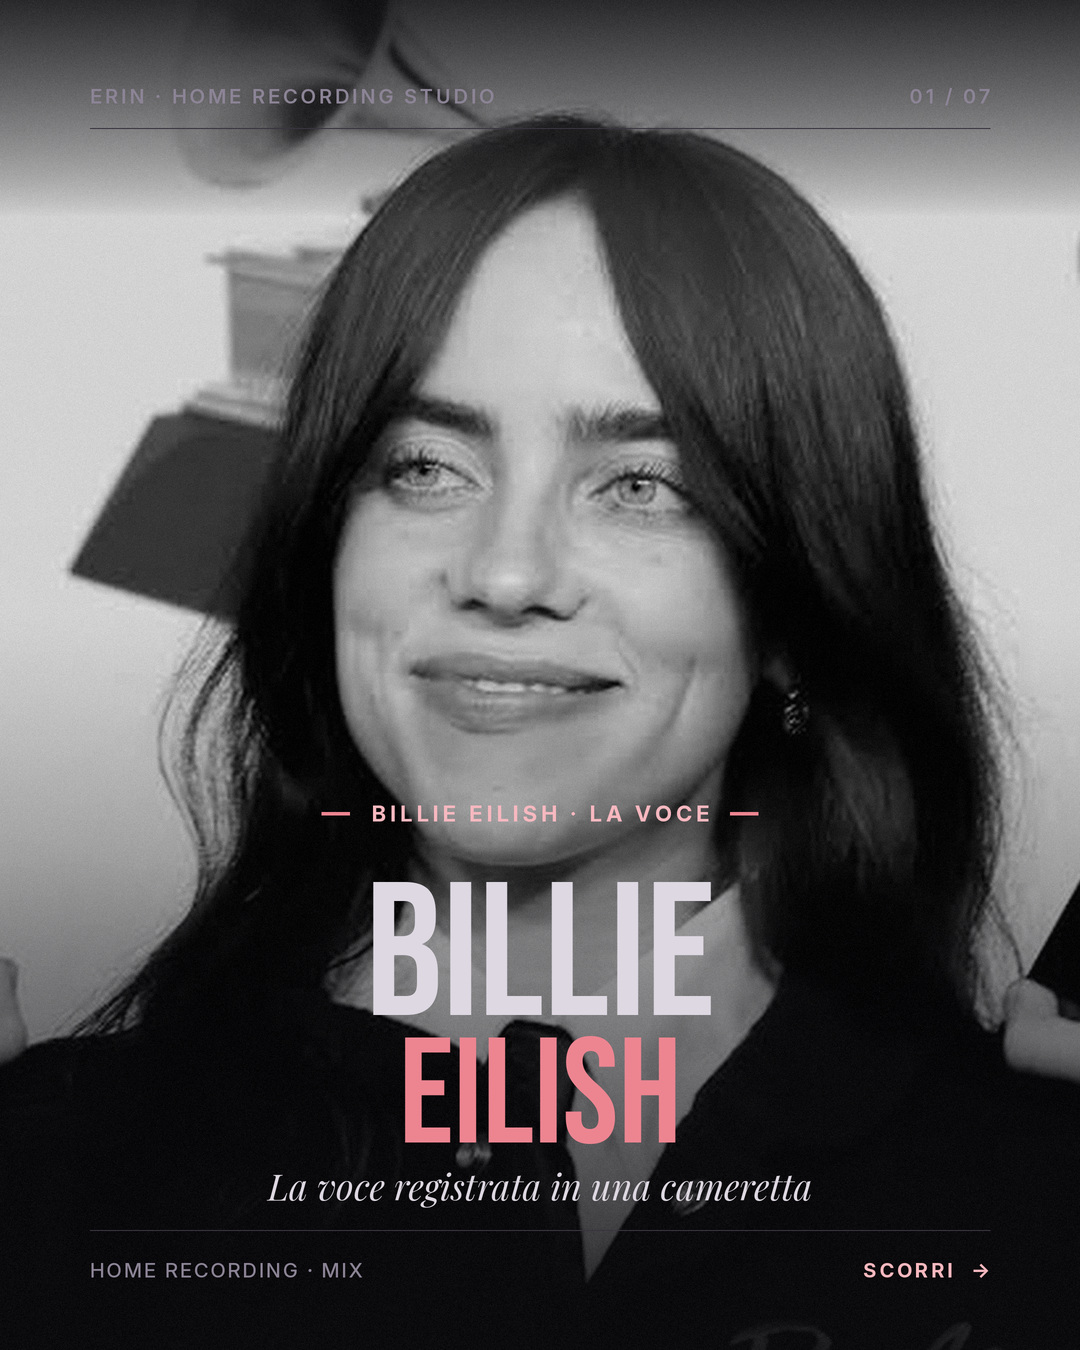
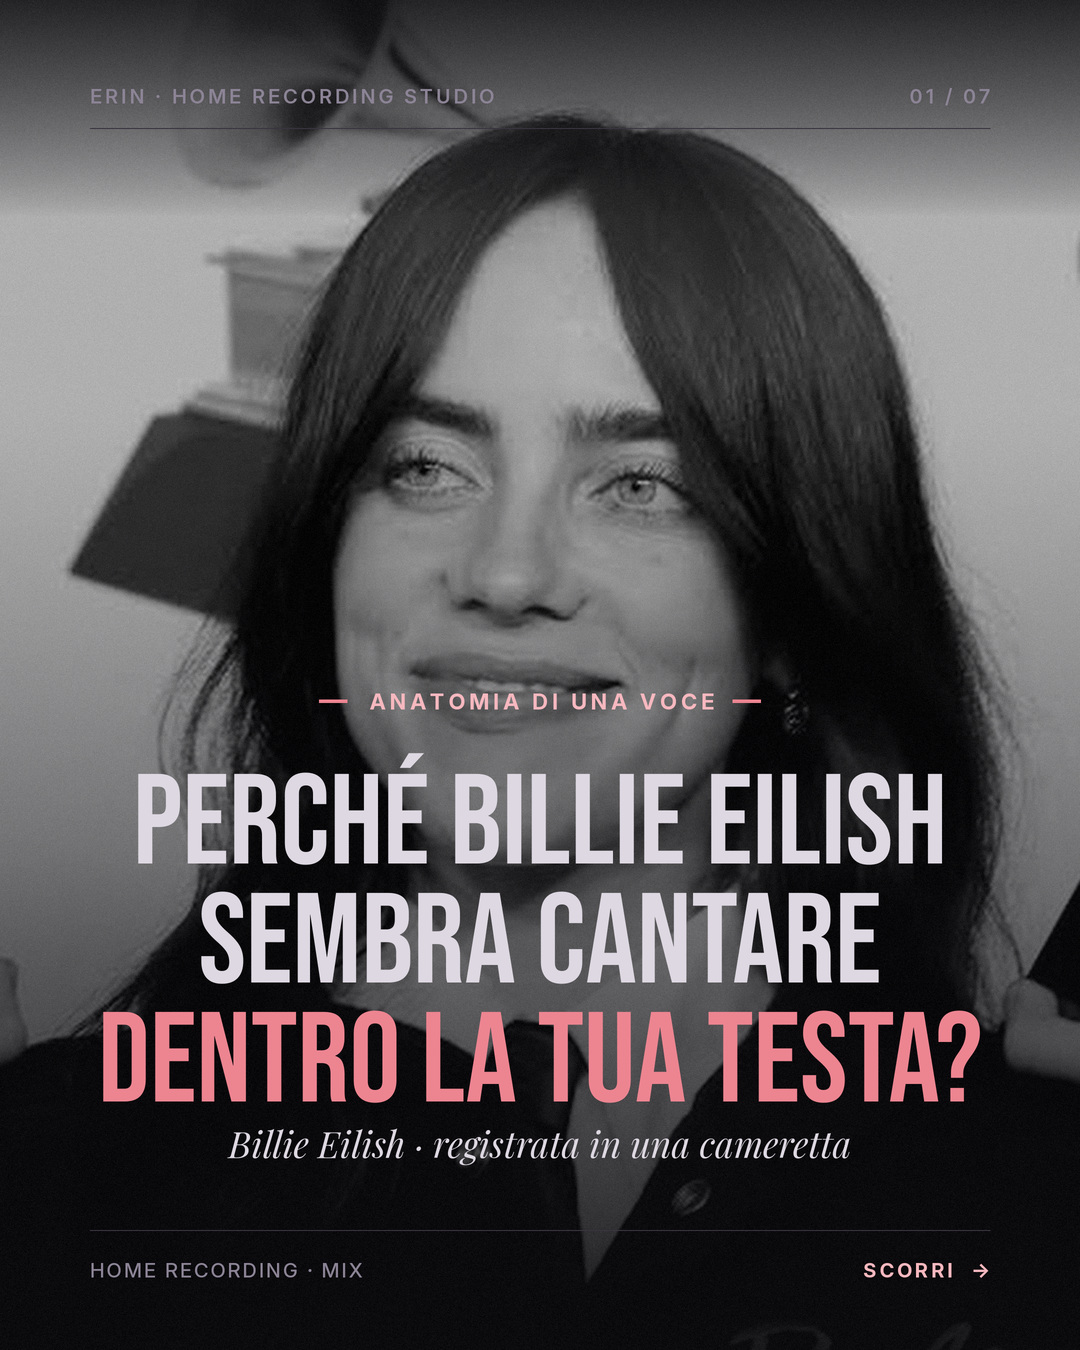
Copertina-domanda (hook) e nuovo Billie Eilish: prossimità, niente EQ da copiare
Claude-Session: https://claude.ai/code/session_01B2PW5xtQpEv7FQVDexaPvm

diff --git a/reels/carousel.py b/reels/carousel.py
@@ -4,7 +4,8 @@ Uso: python -m reels.carousel posts/<nome>
 Legge posts/<nome>/spec.json e scrive posts/<nome>/01.jpg, 02.jpg, ... più caption.txt e musica.txt
 
 Tipi di slide:
-  cover  foto (bianco e nero, primo piano) o sfondo, con kicker / titolo / titolo2 / sottotitolo
+  cover  foto (bianco e nero, primo piano) o sfondo, con kicker / titolo / titolo2 / sottotitolo,
+         oppure "hook": [righe] per la copertina-domanda (artista piccolo nel sottotitolo)
   band   sfondo con fascia rosa ("bg"), frase principale sulla fascia, testo breve nella zona scura
   list   antracite: kicker, titolo e punti (etichetta + testo)
   eq     antracite: kicker, titolo, curva EQ e punti
@@ -76,6 +77,9 @@ def slide_cover(c, s, i, n, root):
     else:
         wave(c, s.get("wave_seed", zlib.crc32(s["title"].encode())))
     c.header(BRAND, f"{i:02d} / {n:02d}")
+    if s.get("hook"):
+        hook_cover(c, s)
+        return
     y = 800
     c.kicker(0, y, s["kicker"], center=True)
     t1 = fit(c, [s["title"]], "display", 190, W - 2 * M)
@@ -87,6 +91,22 @@ def slide_cover(c, s, i, n, root):
         y += t2 * 0.92
     if s.get("subtitle"):
         centered(c, y + 16, [s["subtitle"]], "serif", 36, TEXT)
+    footer(c, s.get("footer", "HOME RECORDING · STORIA"), "SCORRI  →")
+
+
+def hook_cover(c, s):
+    """Copertina-domanda: il gancio grande (ultima riga in accento), l'artista piccolo sotto."""
+    lines = s["hook"]
+    size = fit(c, lines, "display", s.get("hook_size", 128), W - 2 * M)
+    lh = size * 0.93
+    y = H - 185 - lh * len(lines) - (60 if s.get("subtitle") else 0)
+    if s.get("kicker"):
+        c.kicker(0, y - 60, s["kicker"], center=True)
+    for i, l in enumerate(lines):
+        c.text((CX, y), l, font("display", size), fill=style.PINK if i == len(lines) - 1 else TEXT, anchor="ma")
+        y += lh
+    if s.get("subtitle"):
+        centered(c, y + 14, [s["subtitle"]], "serif", 36, TEXT)
     footer(c, s.get("footer", "HOME RECORDING · STORIA"), "SCORRI  →")
 
 
